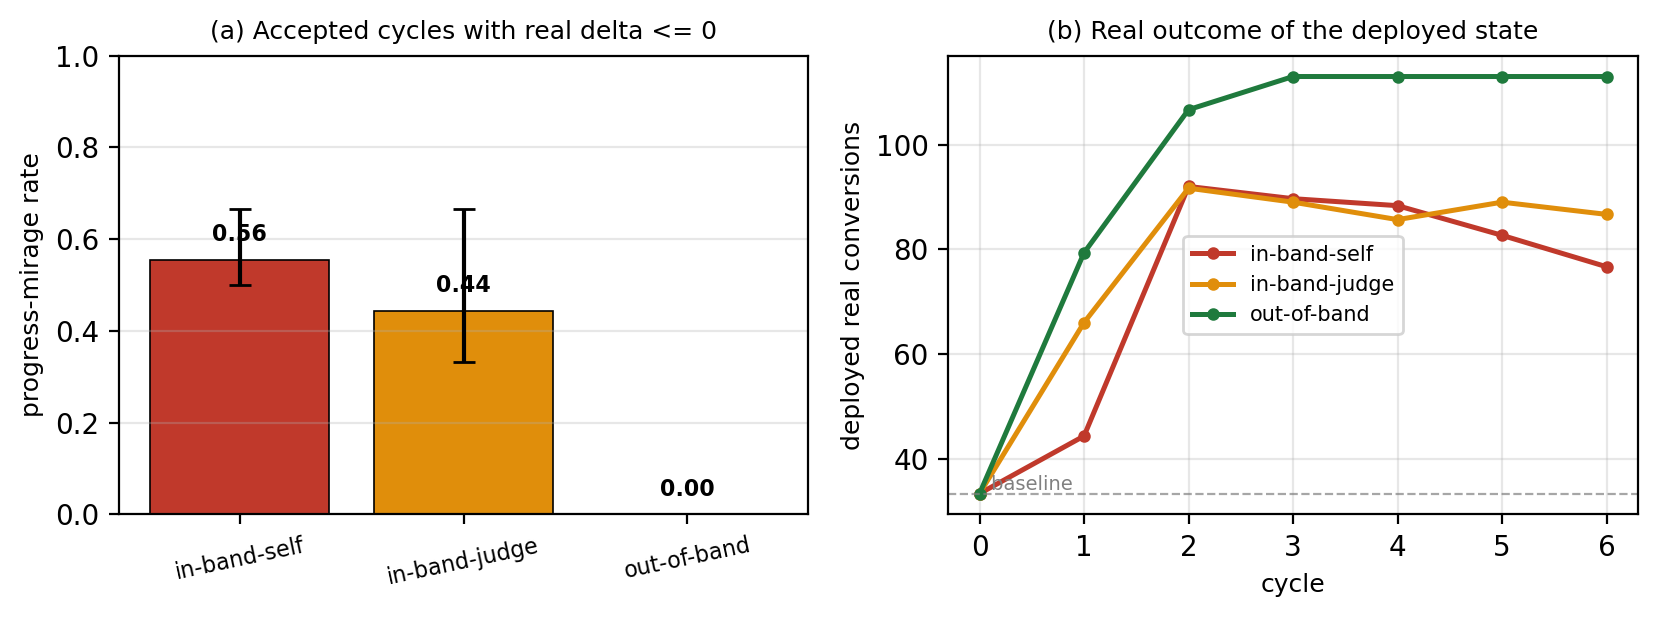
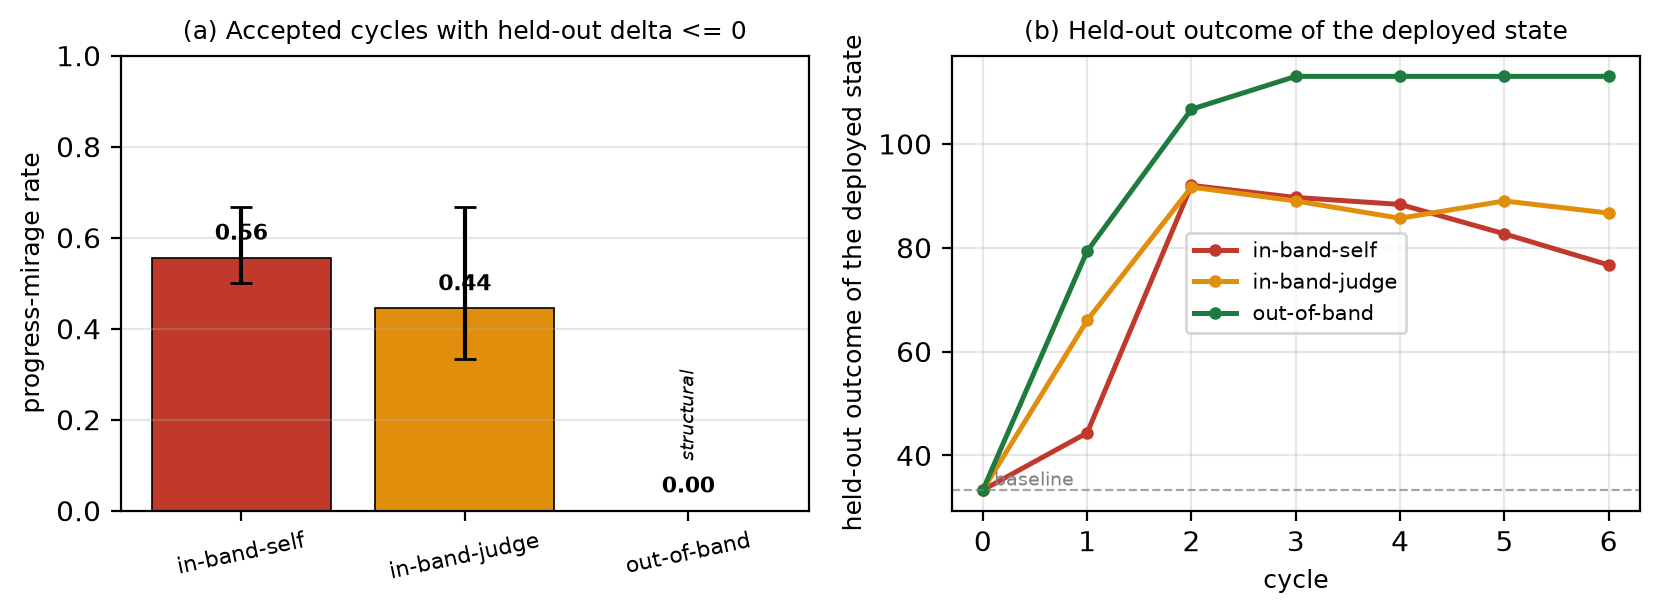
Relabel the results figure and mark the structural bar
The y-axis read 'deployed real conversions' and the panel titles 'real
delta' and 'Real outcome'. That was the last place the growth-domain
vocabulary survived, and it sat inside a PNG where the manuscript's
vocabulary grep could not see it.

The grounded arm's zero bar is now hatched and annotated 'structural'. It
accepts a cycle iff the delta is positive and the bar counts accepted
cycles whose delta is not positive, so the bar is the gate rule drawn as
a measurement. The manuscript spends a paragraph withdrawing it; the
figure should not assert it in a glance.

diff --git a/make_fig.py b/make_fig.py
@@ -43,12 +43,21 @@ def main():
         ms = [mirage(r) for r in trajs[a]]
         m = st.mean(ms); means.append(m)
         lo.append(m - min(ms)); hi.append(max(ms) - m)
+    # The grounded arm's zero is a consequence of the gate rule rather than a
+    # measurement: it accepts iff the delta is positive, and this bar counts
+    # accepted cycles whose delta is not positive. Hatching it keeps the figure
+    # from asserting in a glance what the text spends a paragraph withdrawing.
     bars = ax1.bar(range(len(arms)), means, yerr=[lo, hi], capsize=4,
-                   color=[COLORS[a] for a in arms], edgecolor="black", linewidth=0.6)
+                   color=[COLORS[a] for a in arms], edgecolor="black", linewidth=0.6,
+                   hatch=["//" if a == "out-of-band" else "" for a in arms])
+    for i, a in enumerate(arms):
+        if a == "out-of-band":
+            ax1.text(i, 0.12, "structural", ha="center", fontsize=7,
+                     style="italic", rotation=90, color="black")
     ax1.set_xticks(range(len(arms))); ax1.set_xticklabels(arms, fontsize=8, rotation=12)
     ax1.set_ylabel("progress-mirage rate", fontsize=9)
     ax1.set_ylim(0, 1.0)
-    ax1.set_title("(a) Accepted cycles with real delta <= 0", fontsize=9)
+    ax1.set_title("(a) Accepted cycles with held-out delta <= 0", fontsize=9)
     for i, m in enumerate(means):
         ax1.text(i, m + 0.04, f"{m:.2f}", ha="center", fontsize=8, fontweight="bold")
     ax1.grid(axis="y", alpha=0.3)
@@ -64,8 +73,8 @@ def main():
     ax2.axhline(base0, color="gray", linestyle="--", linewidth=0.8, alpha=0.7)
     ax2.text(0.05, base0, " baseline", fontsize=7, color="gray", va="bottom")
     ax2.set_xlabel("cycle", fontsize=9)
-    ax2.set_ylabel("deployed real conversions", fontsize=9)
-    ax2.set_title("(b) Real outcome of the deployed state", fontsize=9)
+    ax2.set_ylabel("held-out outcome of the deployed state", fontsize=9)
+    ax2.set_title("(b) Held-out outcome of the deployed state", fontsize=9)
     ax2.legend(fontsize=7.5, loc="best")
     ax2.grid(alpha=0.3)
 
